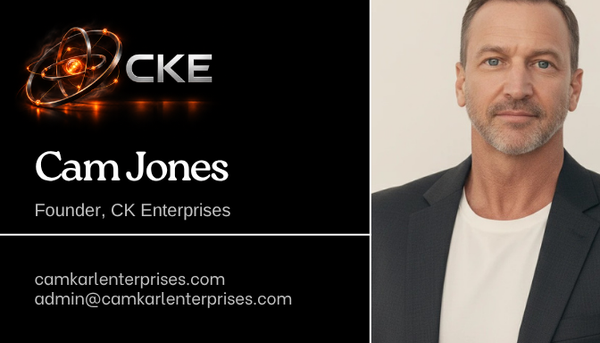
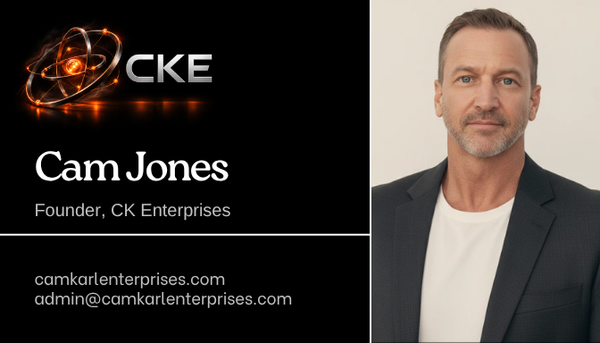
Brand: card photo crop and back image

Changed region(s): [[0.6, 0.0, 1.0, 1.0], [0.99, 0.6706, 1.0, 0.6997]]

diff --git a/brand/card.html b/brand/card.html
@@ -2,4 +2,4 @@
 <title>CKE business card</title>
 <style>body{margin:0;background:#1a1a1f;color:#f1ede6;font:16px/1.5 system-ui,sans-serif;padding:24px max(16px,env(safe-area-inset-left,0px))}
 main{max-width:700px;margin:0 auto;display:grid;gap:14px}h1{margin:0;font-size:22px}h2{margin:10px 0 0;font-size:16px;color:#9a958c;font-weight:600}img{width:100%;height:auto;border-radius:10px;box-shadow:0 8px 30px rgba(0,0,0,.6)}</style></head>
-<body><main><h1>Business card</h1><h2>FRONT</h2><img src="card-front-preview.png?v=2" alt="Card front"><h2>BACK</h2><img src="card-back-preview.png?v=3" alt="Card back"></main></body></html>
+<body><main><h1>Business card</h1><h2>FRONT</h2><img src="card-front-preview.png?v=4" alt="Card front"><h2>BACK</h2><img src="card-back-preview.png?v=4" alt="Card back"></main></body></html>
